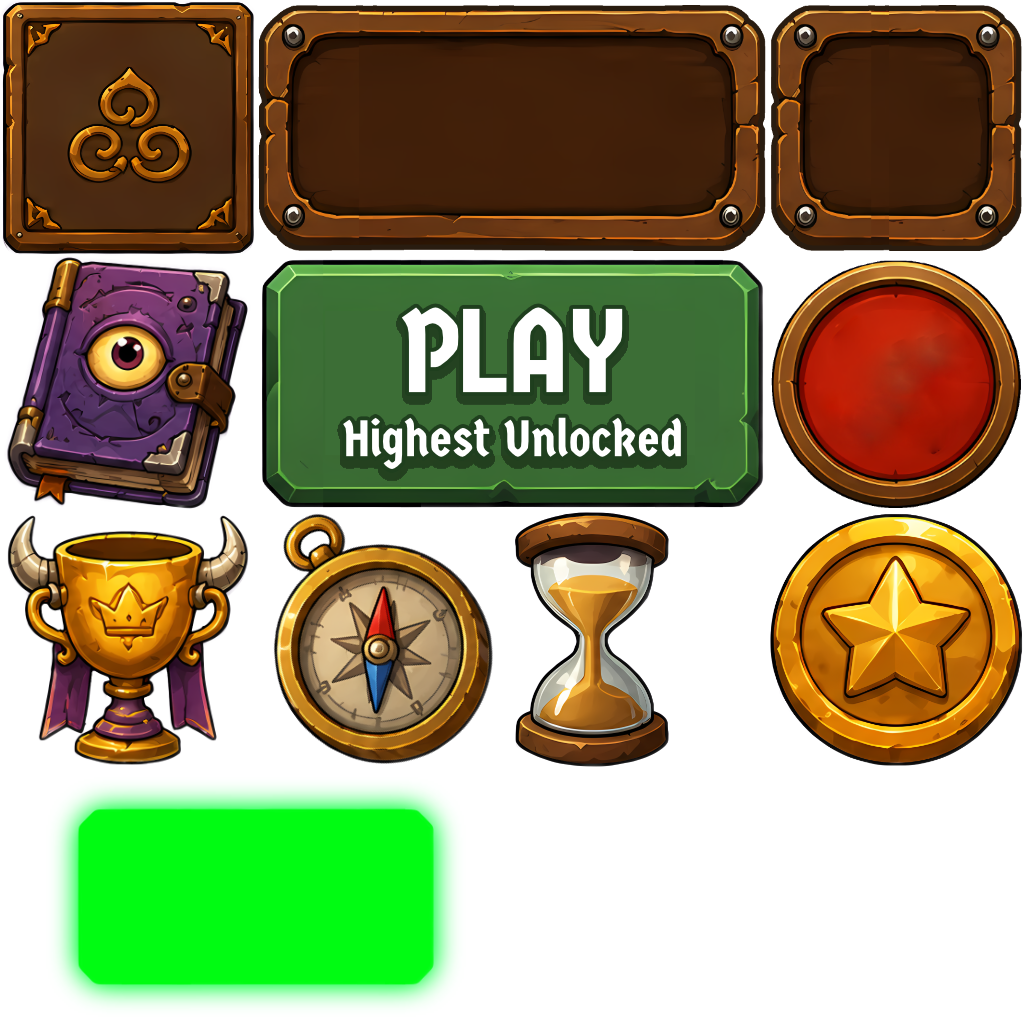
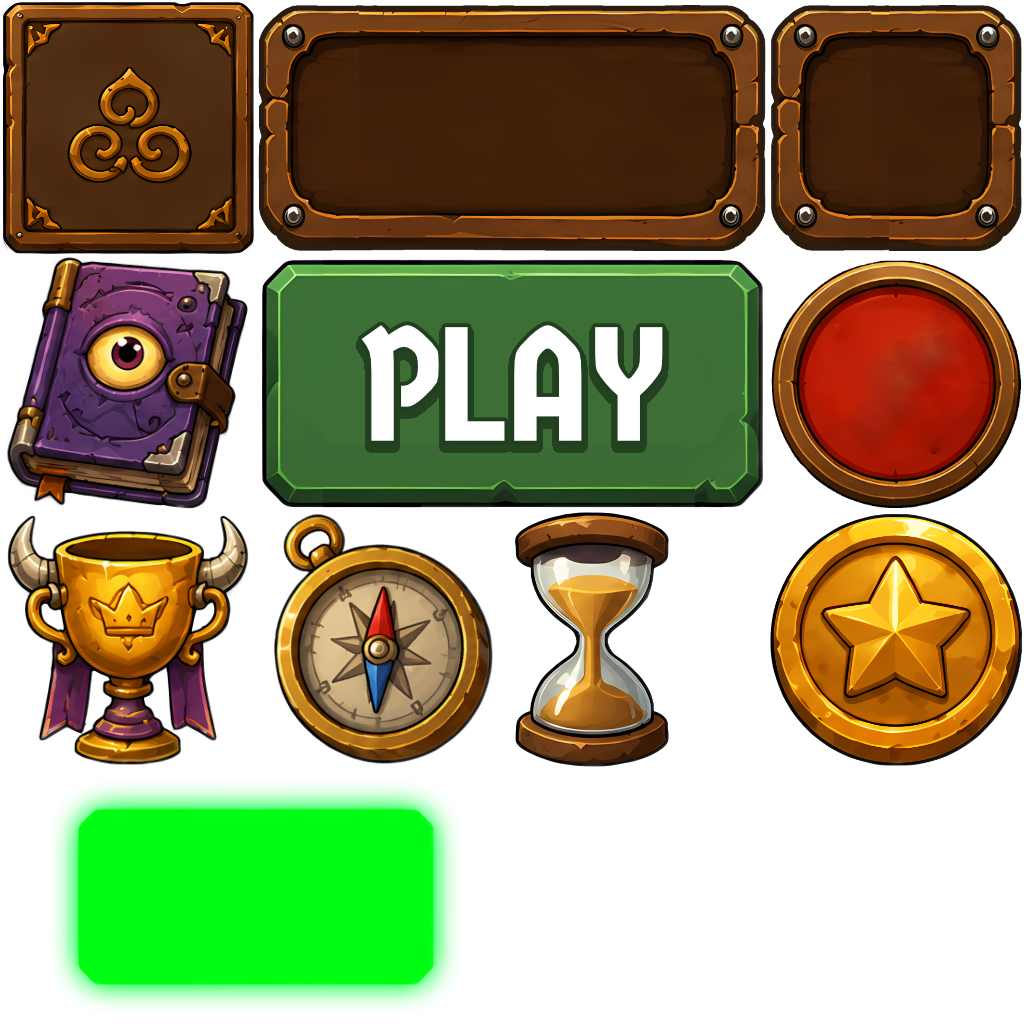
New simplified "play" option + checkpoints

Changed region(s): [[0.3125, 0.2812, 0.6875, 0.4688]]

diff --git a/src/ui.tsx b/src/ui.tsx
@@ -627,7 +627,6 @@ const BACK_UVS = getUvsForBlock(0, 0, 2, 2, BACK_ATLAS_GRID)
 // Header button icons are 2x2 blocks of atlas_01.png.
 const LEADERBOARD_BUTTON_UVS = getUvsForBlock(0, 4, 2, 2, BACK_ATLAS_GRID) // A5-B6
 const CODEX_BUTTON_UVS = getUvsForBlock(0, 2, 2, 2, BACK_ATLAS_GRID) // A3-B4
-const CHECKPOINTS_BUTTON_UVS = getUvsForBlock(2, 4, 2, 2, BACK_ATLAS_GRID) // C5-D6
 const SCORE_BACKGROUND_UVS = getUvsForBlock(2, 0, 4, 2, BACK_ATLAS_GRID) // C1-F2
 const PLAY_BUTTON_UVS = getUvsForBlock(2, 2, 4, 2, BACK_ATLAS_GRID) // C3-F4
 const PLAY_GLOW_UVS = getUvsForBlock(0, 6, 4, 2, BACK_ATLAS_GRID) // A7-D8 - same 4x2 span as the button
@@ -1298,6 +1297,15 @@ export function showCheckpointSelect() {
   screen = 'checkpointSelect'
 }
 
+// Play is now the only way into the game (the header's checkpoint-select icon is gone), so it has
+// to cover both cases: with a single level unlocked there is nothing to choose and the selector
+// would just be an extra tap, so drop straight into level 1; from the second level onward, open the
+// selector so the player can pick which one to replay.
+function handlePlayPressed() {
+  if (highestUnlockedCheckpoint > 1) showCheckpointSelect()
+  else startCheckpoint(1)
+}
+
 // Chase succeeded: grant the collection (mirrors what reportBoardTime's checkpointComplete used
 // to do client-side, now deferred until the player actually catches the prize), hand off from the
 // "find the monster" toast to "monster collected", and let the player start another round once
@@ -1579,12 +1587,6 @@ const MemoryMatchUi = () => (
               uiBackground={{ textureMode: 'stretch', texture: { src: BACK_IMAGE }, uvs: CODEX_BUTTON_UVS }}
             />
           </UiEntity>
-          <UiEntity uiTransform={{ width: HEADER_RIGHT_ICON_SIZE_PX, height: HEADER_RIGHT_ICON_SIZE_PX, flexShrink: 0, margin: { left: 8 } }} onMouseDown={() => showCheckpointSelect()}>
-            <UiEntity
-              uiTransform={{ positionType: 'absolute', position: { left: 0, top: 0 }, width: '100%', height: '100%' }}
-              uiBackground={{ textureMode: 'stretch', texture: { src: BACK_IMAGE }, uvs: CHECKPOINTS_BUTTON_UVS }}
-            />
-          </UiEntity>
         </UiEntity>
       </UiEntity>
 
@@ -1660,7 +1662,7 @@ const MemoryMatchUi = () => (
                       justifyContent: 'flex-end'
                     }}
                     uiBackground={{ textureMode: 'stretch', texture: { src: BACK_IMAGE }, uvs: PLAY_BUTTON_UVS }}
-                    onMouseDown={() => startCheckpoint(highestUnlockedCheckpoint)}
+                    onMouseDown={() => handlePlayPressed()}
                   />
                 </UiEntity>
               </UiEntity>
